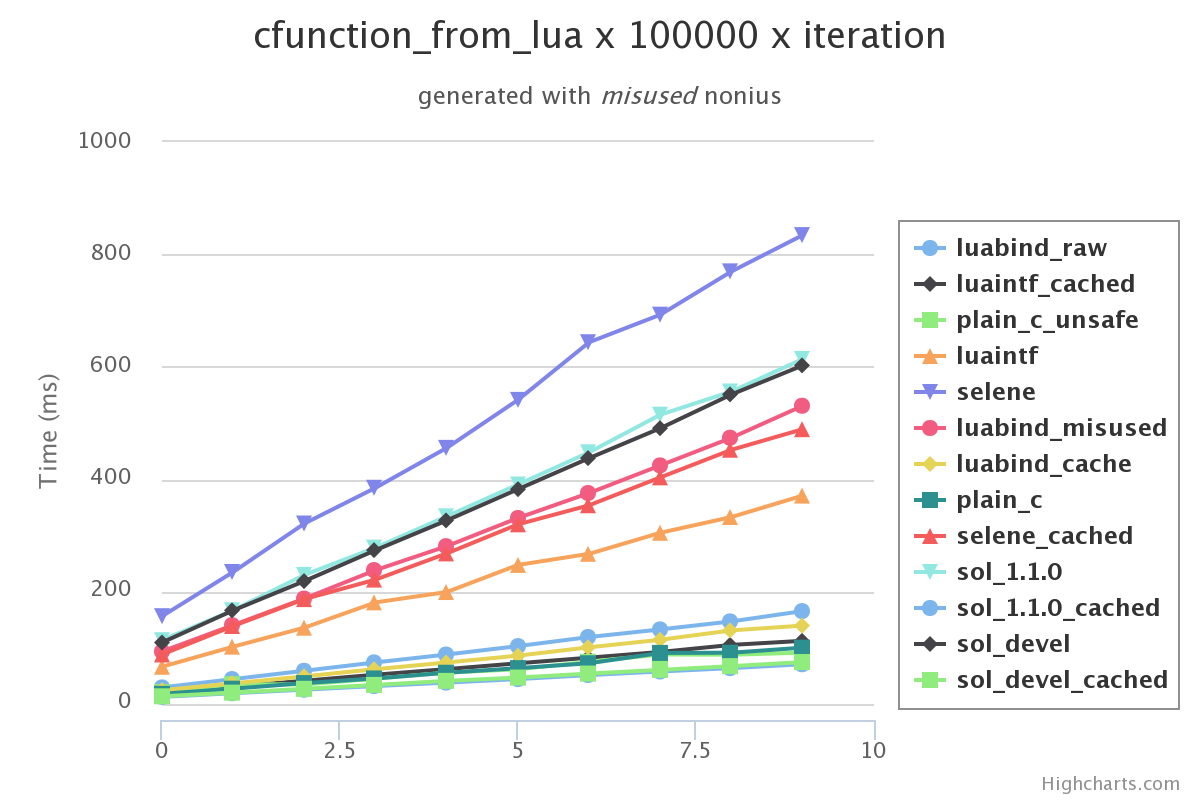
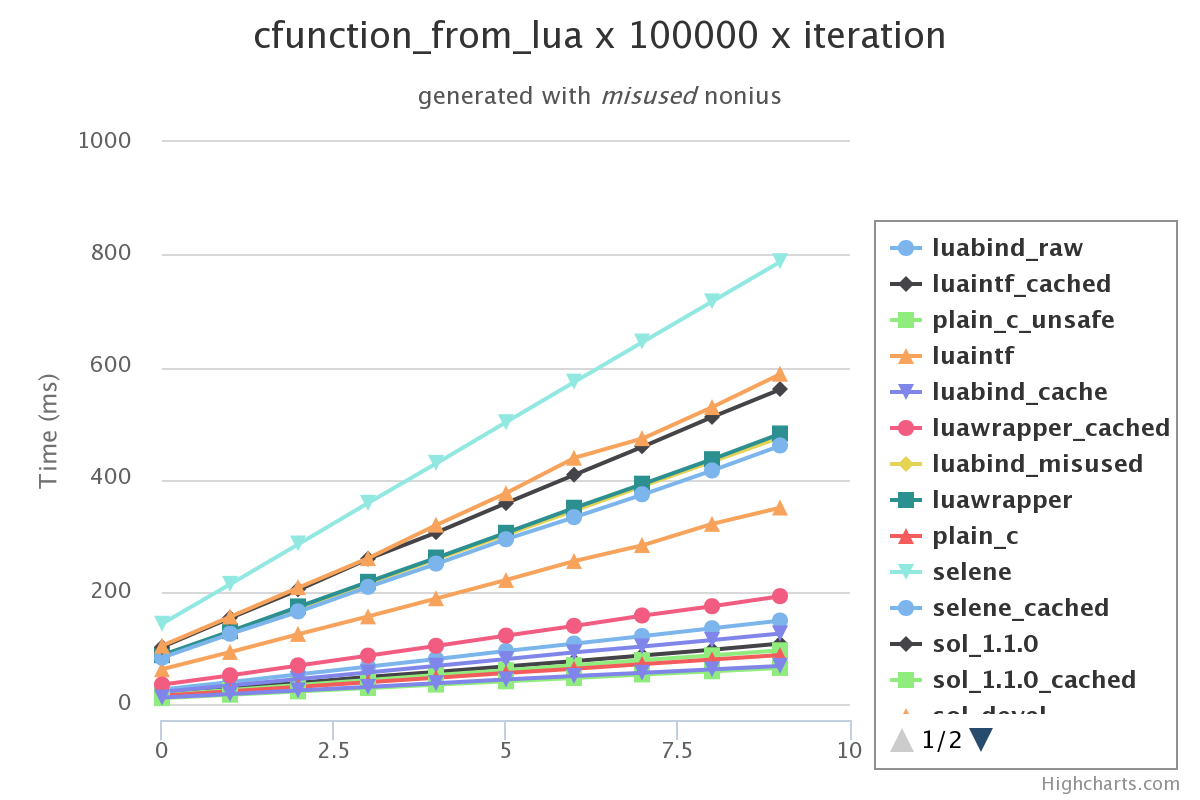
updated results

diff --git a/README.md b/README.md
@@ -5,9 +5,9 @@ Notes:
 - lua-intf, https://github.com/SteveKChiu/lua-intf header only is an option
 - Luabind, 
 - Luabind-deboostyfied, https://github.com/Wohlhabend-Networks/luabind-deboostified
-- luacxx, https://github.com/dafrito/luacxx
-- LuaState, https://github.com/AdUki/LuaState
-- luapath, https://github.com/guwere/luapath
+- ~~luacxx, https://github.com/dafrito/luacxx no support for direct functions call.~~
+- ~~LuaState, https://github.com/AdUki/LuaState no support for direct functions call.~~
+- ~~luapath, https://github.com/guwere/luapath no support for direct functions call.~~
 - luawrapper, https://github.com/tomaka/luawrapper
 - sol, https://github.com/Rapptz/sol tag: v0.1.1
 - sol_devel, https://github.com/Rapptz/sol.git -latest dev version
